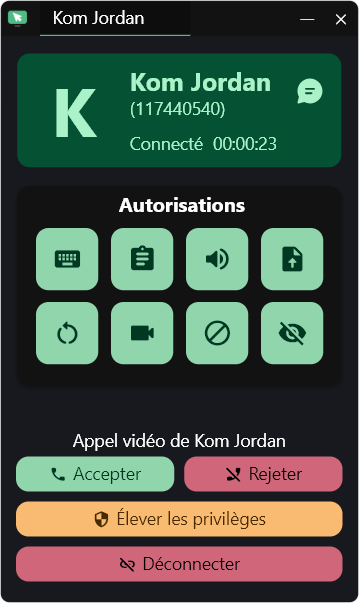
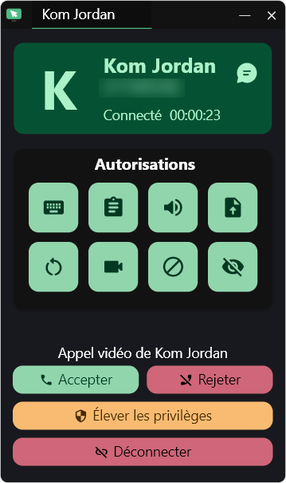
docs: mask incoming-call ID and match connection screenshot size [skip ci]

diff --git a/README.md b/README.md
@@ -64,7 +64,7 @@ La version portable publiée correspond au tag [`v1.5.1-komi.71`](https://github
 
 ## Captures
 
-Les captures historiques proviennent de KomiRemote v1.5.1-komi.71 ; la demande d’appel vidéo et les pastilles hôte montrent les évolutions Windows approuvées le 3 novembre 2026. Les IDs des captures historiques sont floutés ; les noms d’appareils restent visibles. La nouvelle capture d’appel conserve l’ID visible tel qu’approuvé.
+Les captures historiques proviennent de KomiRemote v1.5.1-komi.71 ; la demande d’appel vidéo et les pastilles hôte montrent les évolutions Windows approuvées le 3 novembre 2026. Les IDs de connexion sont floutés ; les noms d’appareils restent visibles.
 
 ### Accueil
 
